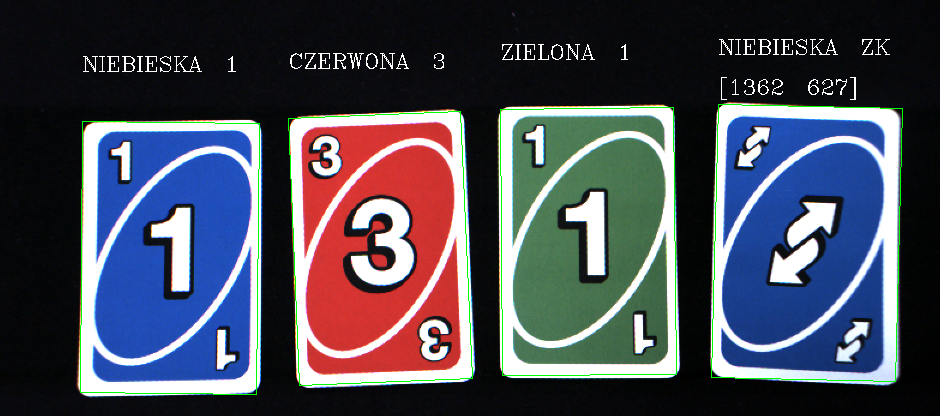
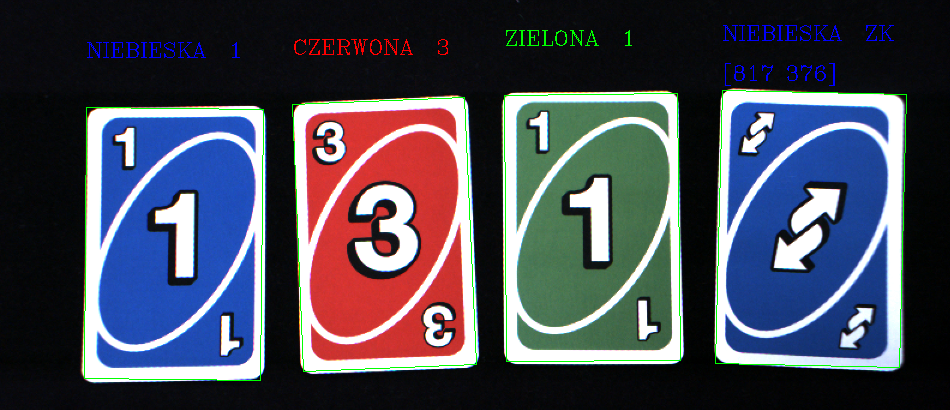
beter result image

diff --git a/CardDetector.py b/CardDetector.py
@@ -7,7 +7,7 @@ from typing import List, Optional
 @dataclass
 class Card:
     image: np.ndarray                       # Macierz przechowujaca karte (RGB)
-    box: List[int]                          # Lista 4 liczb (np. [x1, y1, x2, y2])
+    box: List[int]                          # Lista 4 liczb (np. [[x1, y1], [x2, y2], [x3, y3], [x4, y4]])
     center: np.ndarray                      # Środek jako macierz lub lista współrzędnych [x, y]
     color: Optional[str] = None             # Kolor, np. "czerwony", domyślnie brak
     symbol: Optional[str] = None            # Symbol (np. "1"), domyślnie brak
